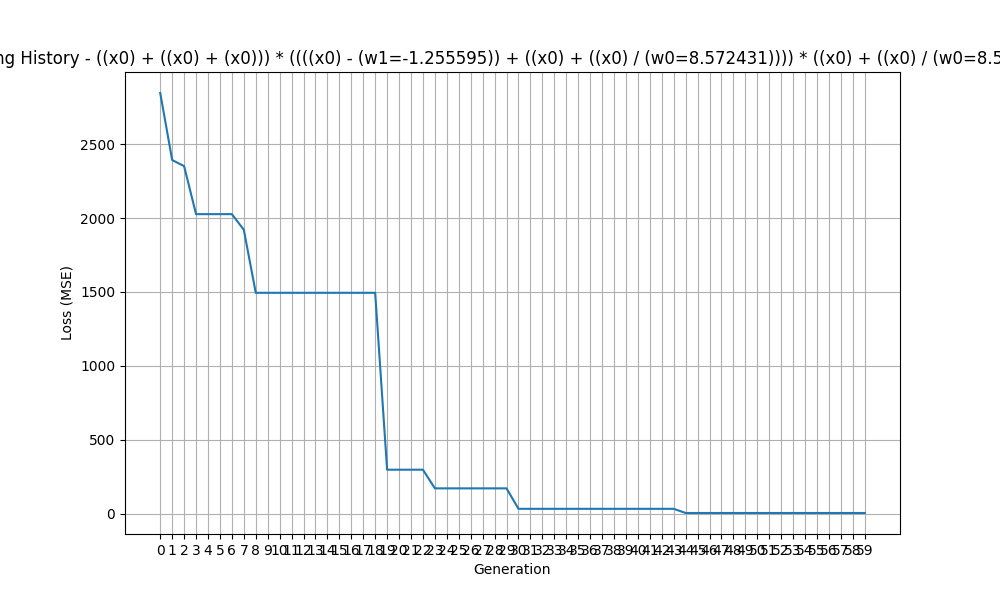
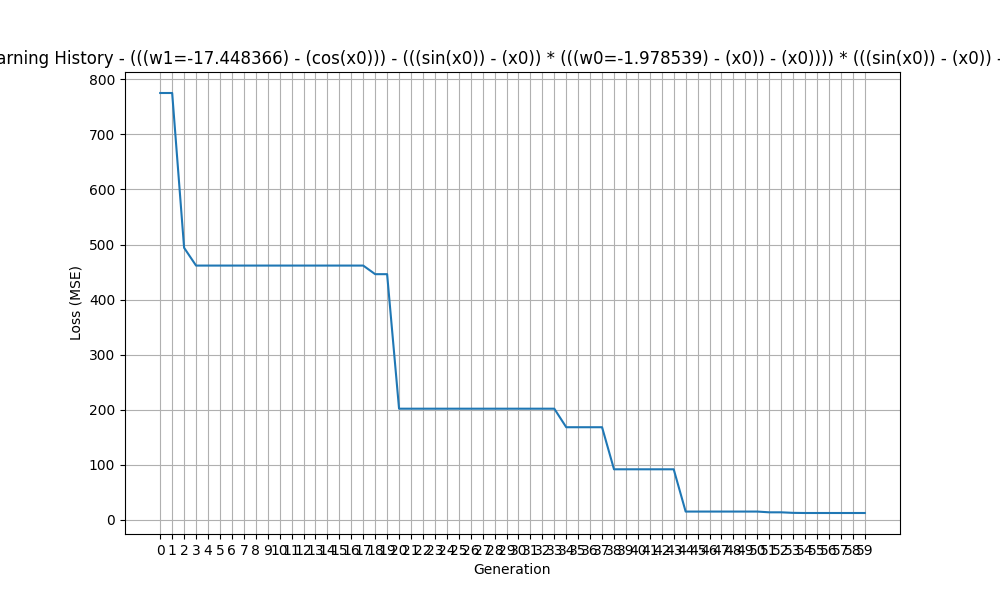
Use large number of gradient descent epochs and Hybrid runner in 1D benchmark

diff --git a/benchmark/benchmark1d.py b/benchmark/benchmark1d.py
@@ -27,11 +27,11 @@ model = GeneticProgrammingIslands(
     mutation=DefaultMutation(nvars=NVARS, nweights=NWEIGHTS),
     crossover=DefaultCrossover(),
     selection=FitnessProportionalSelection(),
-    runner_generator=InterIndividualRunnerGenerator()
+    runner_generator=HybridRunnerGenerator()
 )
 
 # Fit model
-solution, history = model.fit(ngenerations=15, nsupergenerations=15, nepochs=1, verbose=True)
+solution, history = model.fit(ngenerations=15, nsupergenerations=4, nepochs=500, verbose=True)
 
 # Print best solution
 print("Best solution: {}".format(solution))
